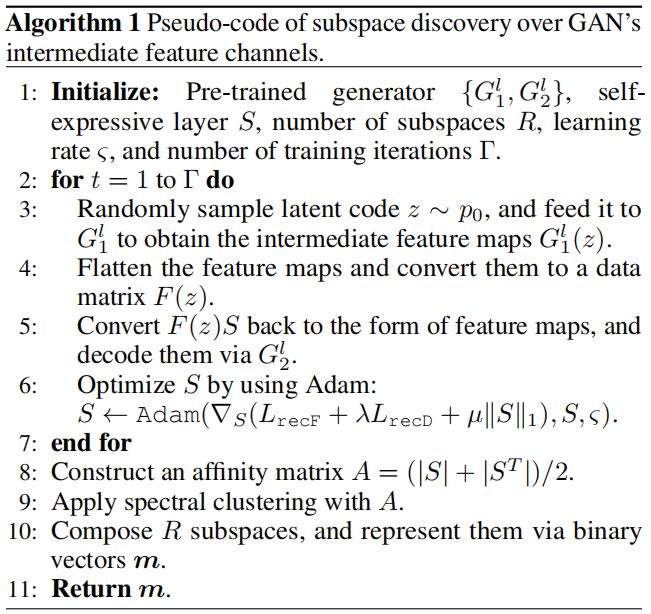
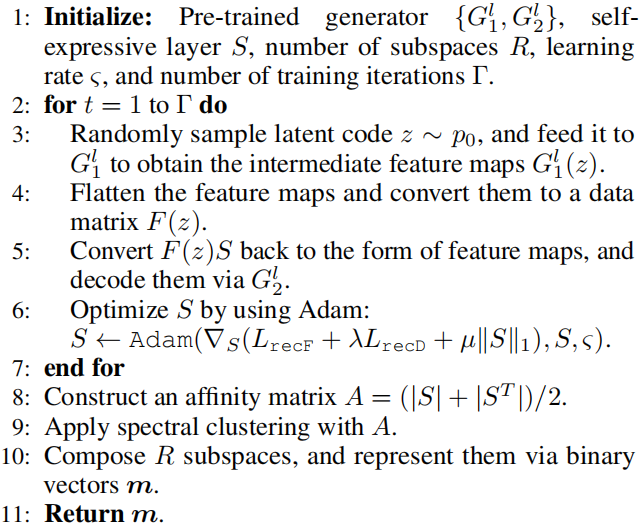
add pmsfc

diff --git a/_publications/aaai2021.md b/_publications/aaai2021.md
@@ -117,8 +117,7 @@ On the other hand, $S$ is expected to have a block-diagonal structure to some ex
 
 $$\min_S L_{recF} + \lambda L_{recD} + \mu \|S\|_1 \quad s.t. \quad diag(S)=0, \tag{6}$$
 
-where λ and µ are weighting factors for adjusting the relative importance of the corresponding terms. Note that there is a trivial solution ($S = I$), and we thus require that $diag(S) = 0$. The self-expressive layer can be implemented via the full connection of size C × C without applying bias and nonlinear activations, where C denotes the number of channels and each feature channel is taken as a node. Based on the resulting $S$, we construct an affinity matrix $A$ as $A = (|S| + |S^T|)/2$, and apply the spectral clustering algorithm [(Ng, Jordan, and Weiss 2002)]() to determine a set of subspaces over the intermediate feature channels. We outline the training procedure of the proposed subspace discovery approach in Algorithm 1:
-
+where $\lambda$ and $\mu$ are weighting factors for adjusting the relative importance of the corresponding terms. Note that there is a trivial solution ($S = I$), and we thus require that $diag(S) = 0$. The self-expressive layer can be implemented via the full connection of size $C \times C$ without applying bias and nonlinear activations, where $C$ denotes the number of channels and each feature channel is taken as a node. Based on the resulting $S$, we construct an affinity matrix $A$ as $A = (|S| + |S^T|)/2$, and apply the spectral clustering algorithm [(Ng, Jordan, and Weiss 2002)]() to determine a set of subspaces over the intermediate feature channels. We outline the training procedure of the proposed subspace discovery approach in Algorithm 1:
 <center>
     <img style="border-radius: 0.3125em;
     box-shadow: 0 2px 4px 0 rgba(34,36,38,.12),0 2px 10px 0 rgba(34,36,38,.08);" 
@@ -128,6 +127,7 @@ where λ and µ are weighting factors for adjusting the relative importance of t
     display: inline-block;
     color: black;
     padding: 2px;">
+    Alg 1. Pseudo-code of subspace discovery over GAN's intermediate feature channels. 
     </div>
 </center>
 
